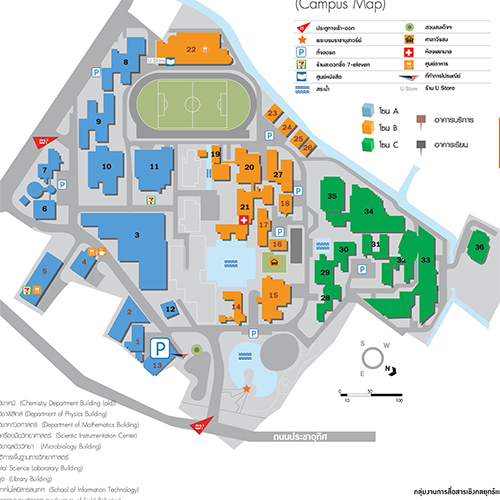
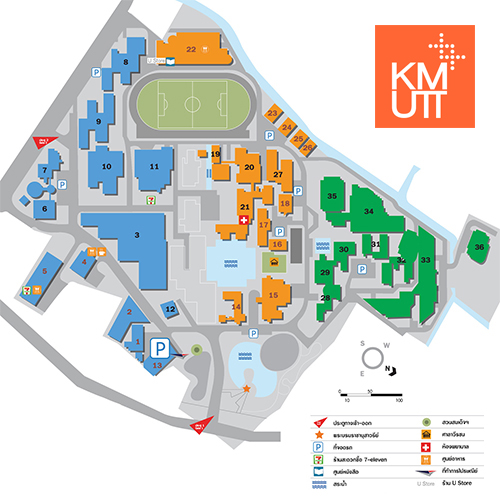
Add more text
+ Add more information
~ Change from skeletoncss to spectrecss
+ Disable some mouse control behavior
~ Edit readme
^ Improve map

diff --git a/index.html b/index.html
@@ -4,41 +4,47 @@
   <meta charset="UTF-8">
   <meta name="viewport" content="width=device-width, initial-scale=1.0">
   <meta http-equiv="X-UA-Compatible" content="ie=edge">
-  <link rel='stylesheet' href='https://cdnjs.cloudflare.com/ajax/libs/skeleton/2.0.4/skeleton.min.css'/>
+  <link rel="stylesheet" href="https://unpkg.com/spectre.css/dist/spectre.min.css">
+  <link rel="stylesheet" href="https://unpkg.com/spectre.css/dist/spectre-exp.min.css">
+  <!-- <link rel="stylesheet" href="https://unpkg.com/spectre.css/dist/spectre-icons.min.css"> -->
   <style>
+    #map {
+      box-shadow: 0 2px 2px 0 rgba(0,0,0,0.07), 0 3px 1px -2px rgba(0,0,0,0.06), 0 1px 5px 0 rgba(0,0,0,0.1);
+    }
     #map > canvas {
       width: 100% !important;
       height: auto !important;
     }
-
-    #statusBox {
-      font-size: 2rem;
-      text-align: center;
-      font-weight: bold;
-      padding: .5rem 0;
-      background: orange;
-      color: black;
+    body {
+      margin:56px 0;
+      display:flex;
+      align-items: center;
+      justify-content: center;
+      min-height: 100vh;
     }
-    #statusBox.success {
-      background: greenyellow;
-      color: black;
+    p{
+      text-indent: 5ch;
+      text-align: justify;
     }
-    #statusBox.failed {
-      background: red;
-      color: white;
+    .m-top-2 {
+      margin-top: 2rem;
+    }
+    .divider {
+      margin-bottom: 1.2rem;
     }
   </style>
   <title>The most efficient path to transverse between building in KMUTT</title>
 </head>
-<body style="margin:0; display:flex; align-items: center; justify-content: center; height: 100vh;">
-  <div class="container">
-    <div class="row">
-      <div class="six columns">
-        <div id="map" style="box-shadow: 0 2px 2px 0 rgba(0,0,0,0.07), 0 3px 1px -2px rgba(0,0,0,0.06), 0 1px 5px 0 rgba(0,0,0,0.1);"></div>
+<body>
+  <div class="container grid-lg">
+    <div class="columns">
+      <div class="column col-6 col-sm-12">
+        <div id="map" oncontextmenu="return false"></div>
       </div>
-      <div class="six columns">
+      <div class="column col-6 col-sm-12">
+        <br>
         <h1>The most efficient path to transverse between building in KMUTT</h1>
-        <ul><b>How to use:</b>
+        <ul><b>How to play:</b>
           <li>
             <b>Left click</b> (on available square) to set starting point.
           </li>
@@ -46,14 +52,42 @@
             <b>Right click</b> (or middle click) to set finish point.
           </li>
         </ul>
-        <div id="statusBox">
+        <div id="statusBox" class="text-center toast toast-warning">
           Searching...
         </div>
       </div>
     </div>
-    
+    <div class="divider m-top-2"></div>
+    <div class="columns">
+      <div class="column col-12">
+        <h1>Abstract</h1>
+        <p>
+          In this project, we would like to explore and solve ‘the most efficient path to transverse between building in KMUTT’ problem. In many times, standing at an intersection and asking yourself, “What is the shortest path to get to building A” or “How can I get to building B quickest”. This problem is difficult to solve for humans because of our perceptions which are different from people to people. In fact, we can lose our time and important opportunity by using inefficient path. Moreover, using online tools such as Google Maps can give you inaccurate answer as it can only process roadways, not footpath or shortcuts between buildings. So, we want to apply our discrete mathematics knowledge to it.
+        </p>
+      </div>
+    </div>
+    <div class="divider"></div>
+    <div class="columns">
+      <div class="column col-12">
+        <h1>A* search algorithm</h1>
+        <p>
+          A* search algorithm is the algorithm which use heuristic function in calculation for the shortest path. Because A* search algorithm did not apply calculation for every node in graph, it is very popular algorithm to use because of its good performance. When A* algorithm is applied, it performs calculation <img alt="f(x) = g(x) + h(x)" src="https://latex.codecogs.com/png.latex?\bg_white&space;f(x)&space;=&space;g(x)&space;&plus;&space;h(x)"> to starting node’s neighbor nodes which <img alt="g(x)" src="https://latex.codecogs.com/png.latex?\bg_white&space;g(x)"> is the cost (how much it takes from starting node to it), and <img alt="h(x)" src="https://latex.codecogs.com/png.latex?\bg_white&space;h(x)"> is the heuristic value (how long from it to target node). By traversing to the next lowest <img alt="f(x)" src="https://latex.codecogs.com/png.latex?\bg_white&space;f(x)"> node and perform calculation to the node’s neighbors one by one, you will be ended up with the shortest path from the starting node to the target node.
+        </p>
+      </div>
+    </div>
+    <div class="divider"></div>
+    <div class="columns">
+      <div class="column col-12">
+        <h1>Applying algorithm to the problem</h1>
+        <p>
+          We apply the algorithm over an image which each pixel is a node, and tell the algorithm if some pixel is a node that cannot get to (like a solid building). Then, applied the algorithm over it. In the end, we will get a path from our starting point to the end. And yet, solve our problem.
+        </p>
+      </div>
+    </div>
+
   </div>
   <script src="https://cdnjs.cloudflare.com/ajax/libs/p5.js/0.7.2/p5.js"></script>
   <script src="./sketch.js"></script>
+  <script src="./script.js"></script>
 </body>
 </html>

diff --git a/sketch.js b/sketch.js
@@ -180,10 +180,10 @@ function draw() {
            * So I want to refactorize this:
            * // if (openSet.includes(neighbor)) {
            * //   if (tempG < neighbor.g) {
-           * //     ::foo
+           * //     <-- foo -->
            * //   }
            * // } else {
-           * //   ::foo
+           * //   <-- foo -->
            * //   openSet.push(neighbor);
            * // }
            * // ...
@@ -262,15 +262,18 @@ function updateHTML(status = 0) {
   var el = document.getElementById("statusBox");
   switch (status) {
     case -1:
-      el.classList.add("failed");
+      el.classList.remove("toast-warning");
+      el.classList.add("toast-error");
       el.innerText = "No solution found!";
       break;
     case 0:
-      el.classList.remove("failed", "success")
+      el.classList.remove("toast-error", "toast-success");
+      el.classList.add("toast-warning");
       el.innerText = "Searching...";
       break;
     case 1:
-      el.classList.add("success")
+      el.classList.remove("toast-warning");
+      el.classList.add("toast-success");
       el.innerText = "Path found!";
       break;
   }

diff --git a/script.js b/script.js
@@ -1,0 +1,3 @@
+(function(){
+  document.body.onmousedown = function (e) { if (e.button === 1) return false; }
+}());

diff --git a/README.md b/README.md
@@ -1,8 +1,8 @@
 # Transverse KMUTT
 *The most efficient path to transverse between building in KMUTT*
 
-In this project, we would like to explore and solve the most efficient path to transverse between building in KMUTT problem. In many times, standing in the intersection and ask yourself, “What is the shortest path to get to building A” “How can I get to building B quickest”. This problem is difficult to solve because of the human perceptions, which are different from people to people. However, we can lose our time and important opportunity by traversing with inefficient path. Moreover, using online tools such as Google Maps can gives you wrong answer because it can only process for roadways, not footpath or shortcuts between buildings. So, we want to apply our knowledge in discrete mathematics to it.
+In this project, we would like to explore and solve ‘the most efficient path to transverse between building in KMUTT’ problem. In many times, standing at an intersection and asking yourself, “What is the shortest path to get to building A” or “How can I get to building B quickest”. This problem is difficult to solve for humans because of our perceptions which are different from people to people. In fact, we can lose our time and important opportunity by using inefficient path. Moreover, using online tools such as Google Maps can give you inaccurate answer as it can only process roadways, not footpath or shortcuts between buildings. So, we want to apply our discrete mathematics knowledge to it.
 
-We have learned that graph theory can be used for solving this kind of problem, so we look for pathfinding algorithm. We found that A* search algorithm (read as A star) can be used in this problem. A* search algorithm is the algorithm which use heuristics in calculating for the shortest path. Because A* search algorithm didn’t do a calculation for every node in graph, it is very popular algorithm to use because of its good performance. When A* algorithm is applied, it performs a calculation ![f(x) = g(x) + h(x)](https://latex.codecogs.com/png.latex?\bg_white&space;f(x)&space;=&space;g(x)&space;&plus;&space;h(x)) to starting node’s neighbor node which ![g(x)](https://latex.codecogs.com/png.latex?\bg_white&space;g(x)) is the cost (how much it takes from starting node to it), and ![h(x)](https://latex.codecogs.com/png.latex?\bg_white&space;h(x)) is the heuristic (how long from it to target node). By traversing to the next lowest ![f(x)](https://latex.codecogs.com/png.latex?\bg_white&space;f(x)) node and perform a calculation to the node’s neighbors one by one, you will be ended up with the shortest path from the starting node to the target node.
+We have learned that graph theory can be used for solving this kind of problem, so we look for pathfinding algorithm. We found that A* search algorithm (read as A star) is suitable to be used in this problem. A* search algorithm is the algorithm which use heuristic function in calculation for the shortest path. Because A* search algorithm did not apply calculation for every node in graph, it is very popular algorithm to use because of its good performance. When A* algorithm is applied, it performs calculation ![f(x) = g(x) + h(x)](https://latex.codecogs.com/png.latex?\bg_white&space;f(x)&space;=&space;g(x)&space;&plus;&space;h(x)) to starting node’s neighbor nodes which ![g(x)](https://latex.codecogs.com/png.latex?\bg_white&space;g(x)) is the cost (how much it takes from starting node to it), and ![h(x)](https://latex.codecogs.com/png.latex?\bg_white&space;h(x)) is the heuristic value (how long from it to target node). By traversing to the next lowest ![f(x)](https://latex.codecogs.com/png.latex?\bg_white&space;f(x)) node and perform calculation to the node’s neighbors one by one, you will be ended up with the shortest path from the starting node to the target node.
 
-With this method, you can apply the algorithm over 2D image where each pixel is a node and tell it if some pixel is a node that cannot get to (like a solid building), then applied the algorithm over it. In the end, we will get a path from our starting point to the end. And yet, solve our problem.
+With this method, we apply the algorithm over an image by treating each pixel as a node, and tell the algorithm if some pixel is a node that cannot get to (like a solid building). Then, applied the algorithm over it. In the end, we will get a path from our starting point to the end. And yet, solve our problem.
